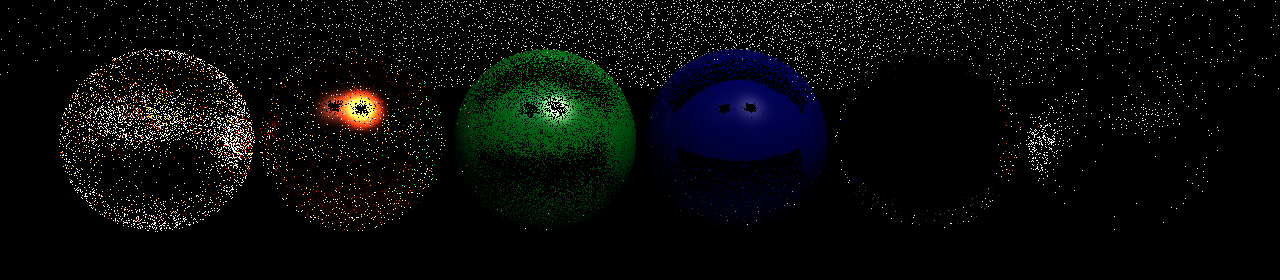
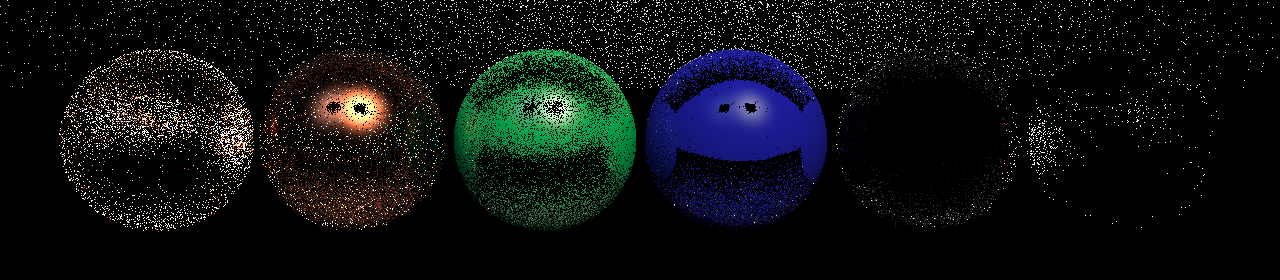
Implement gamma correction

diff --git a/src/raytracer.cpp b/src/raytracer.cpp
@@ -1318,7 +1318,7 @@ struct Vertex
 
 std::vector<Vertex> verts;
 
-int RenderPixels(int heightChunkStart, int heightChunk, Scene& scene, Camera& cam, std::string integrator, int width, int height, UniformGrid& grid, int lightSamples, bool lightStratify, BYTE* pixels, int spp, bool useNEE, bool useRR, std::string importanceSampling, std::string chosenBRDF)
+int RenderPixels(int heightChunkStart, int heightChunk, Scene& scene, Camera& cam, std::string integrator, int width, int height, UniformGrid& grid, int lightSamples, bool lightStratify, BYTE* pixels, int spp, bool useNEE, bool useRR, std::string importanceSampling, std::string chosenBRDF, float gamma)
 {
 	{
 		std::ostringstream oss;
@@ -1394,7 +1394,9 @@ int RenderPixels(int heightChunkStart, int heightChunk, Scene& scene, Camera& ca
 				}
 
 				accumCol /= static_cast<float>(spp); // Average the samples for anti-aliasing
-				col = accumCol;
+				col.r = glm::pow(accumCol.r, 1.0f / gamma);
+				col.g = glm::pow(accumCol.g, 1.0f / gamma);
+				col.b = glm::pow(accumCol.b, 1.0f / gamma);
 			}
 			int idx = (y * width + x) * 3;
 			pixels[idx + 0] = std::min(col.b * 255.0f, 255.0f);
@@ -1769,7 +1771,7 @@ int main() {
 
 		if (start >= end) continue; // nothing to do for this thread
 
-		threads.emplace_back(RenderPixels, start, end, std::ref(*scene), std::ref(cam), integrator, IMAGE_WIDTH, IMAGE_HEIGHT, std::ref(*grid), lightSamples, lightStratify, pixels, spp, useNEE, useRR, importanceSampling, brdf);
+		threads.emplace_back(RenderPixels, start, end, std::ref(*scene), std::ref(cam), integrator, IMAGE_WIDTH, IMAGE_HEIGHT, std::ref(*grid), lightSamples, lightStratify, pixels, spp, useNEE, useRR, importanceSampling, brdf, gamma);
 	}
 
 	for (auto& t : threads)
